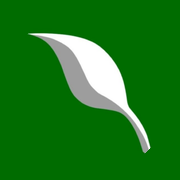
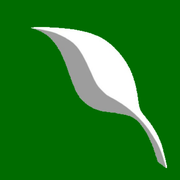
Ícone do app igual ao do Figma: folha maior ocupando o quadro verde
Claude-Session: https://claude.ai/code/session_01PQ5n9BUGFuYLjCzRLEAy8p

Changed region(s): [[0.1389, 0.1389, 0.9444, 0.9444]]

diff --git a/index.html b/index.html
@@ -11,9 +11,9 @@
 <meta name="apple-mobile-web-app-status-bar-style" content="default">
 <meta name="apple-mobile-web-app-title" content="Louvor ICVJ">
 <link rel="manifest" href="manifest.webmanifest">
-<link rel="icon" href="icons/icon-192.png?v=3">
-<link rel="apple-touch-icon" sizes="180x180" href="apple-touch-icon.png?v=3">
-<link rel="apple-touch-icon-precomposed" sizes="180x180" href="apple-touch-icon.png?v=3">
+<link rel="icon" href="icons/icon-192.png?v=4">
+<link rel="apple-touch-icon" sizes="180x180" href="apple-touch-icon.png?v=4">
+<link rel="apple-touch-icon-precomposed" sizes="180x180" href="apple-touch-icon.png?v=4">
 <link rel="preconnect" href="https://fonts.googleapis.com">
 <link rel="preconnect" href="https://fonts.gstatic.com" crossorigin>
 <link rel="stylesheet" href="https://fonts.googleapis.com/css2?family=Figtree:wght@400;500;600;700&family=JetBrains+Mono:wght@400;700&display=swap">

diff --git a/sw.js b/sw.js
@@ -1,5 +1,5 @@
 /* Service worker: guarda o app para abrir sem internet (útil no culto). */
-const CACHE = 'louvor-icvj-v4';
+const CACHE = 'louvor-icvj-v5';
 const SHELL = ['./', 'index.html', 'styles.css', 'config.js', 'app.js', 'manifest.webmanifest', 'icons/logo.png', 'icons/icon-192.png', 'icons/icon-512.png', 'icons/apple-touch-icon.png', 'apple-touch-icon.png'];
 
 self.addEventListener('install', (e) => {
